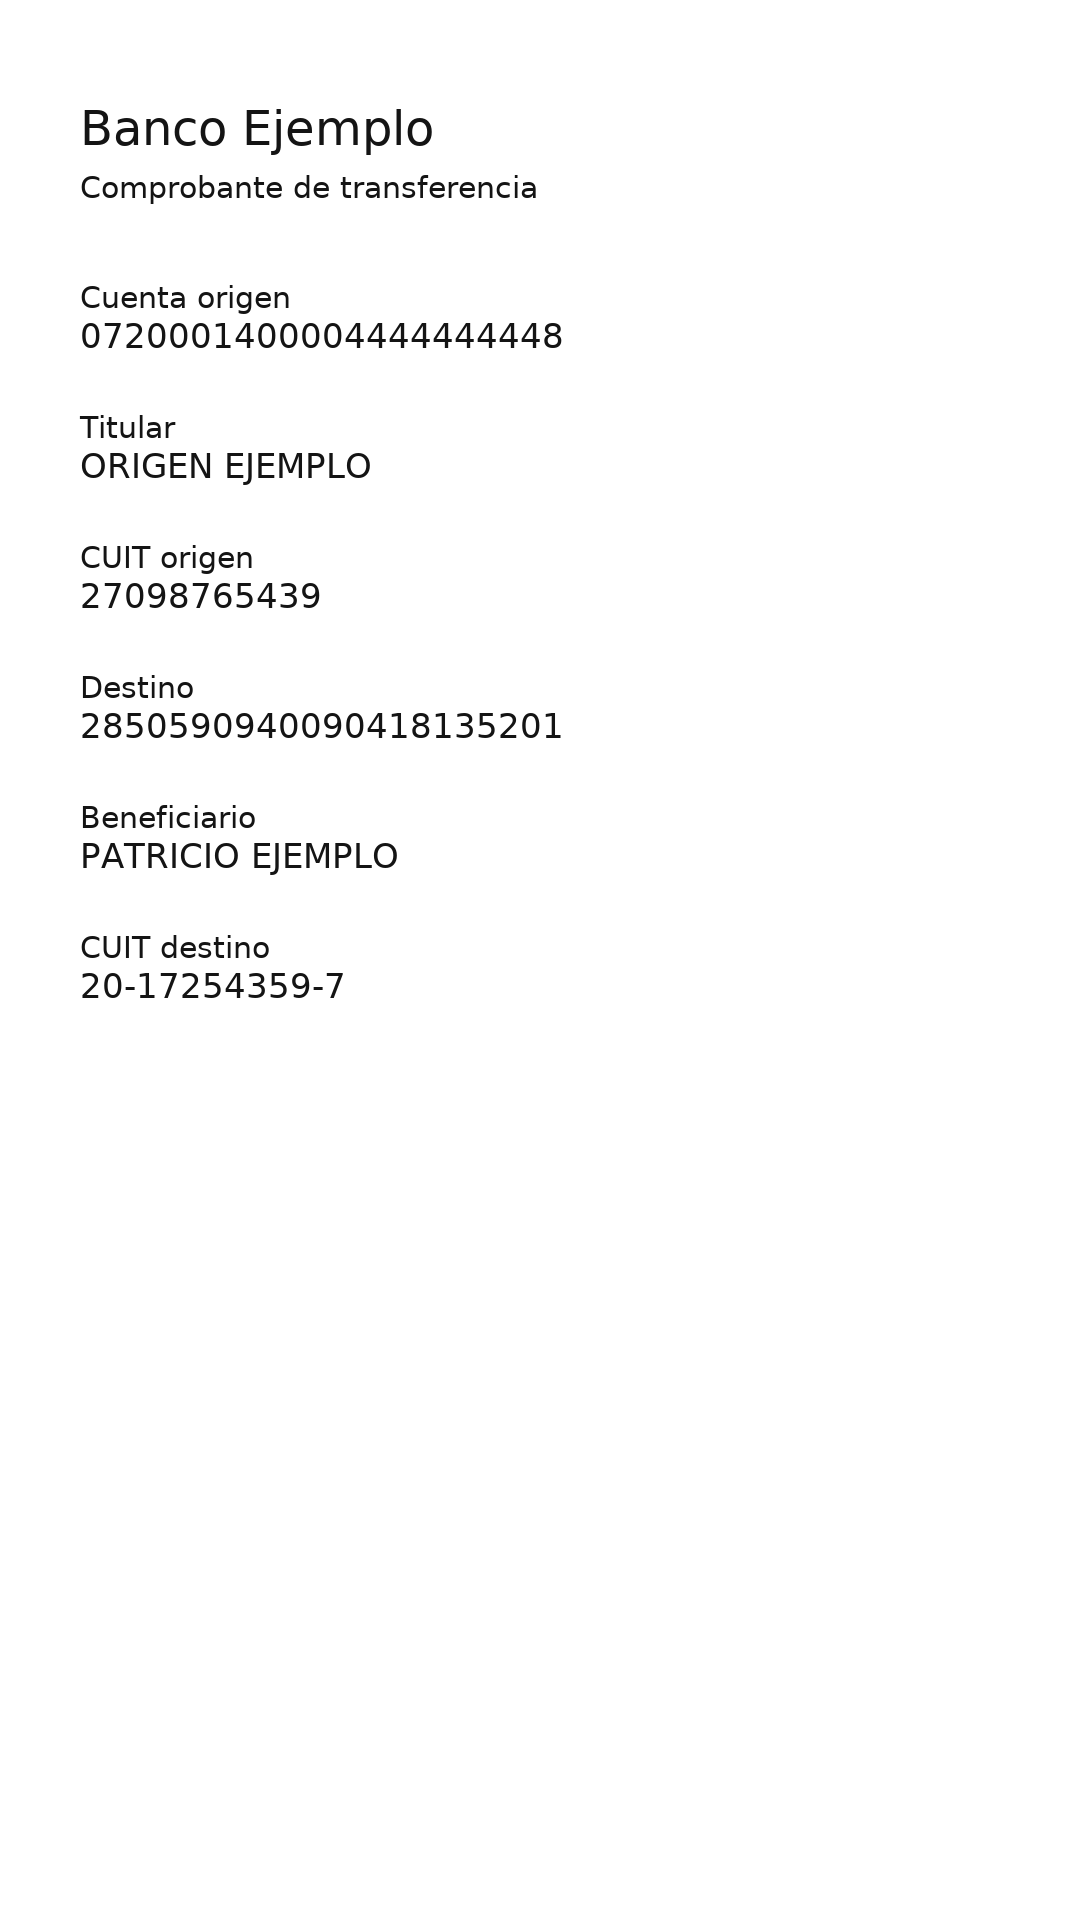
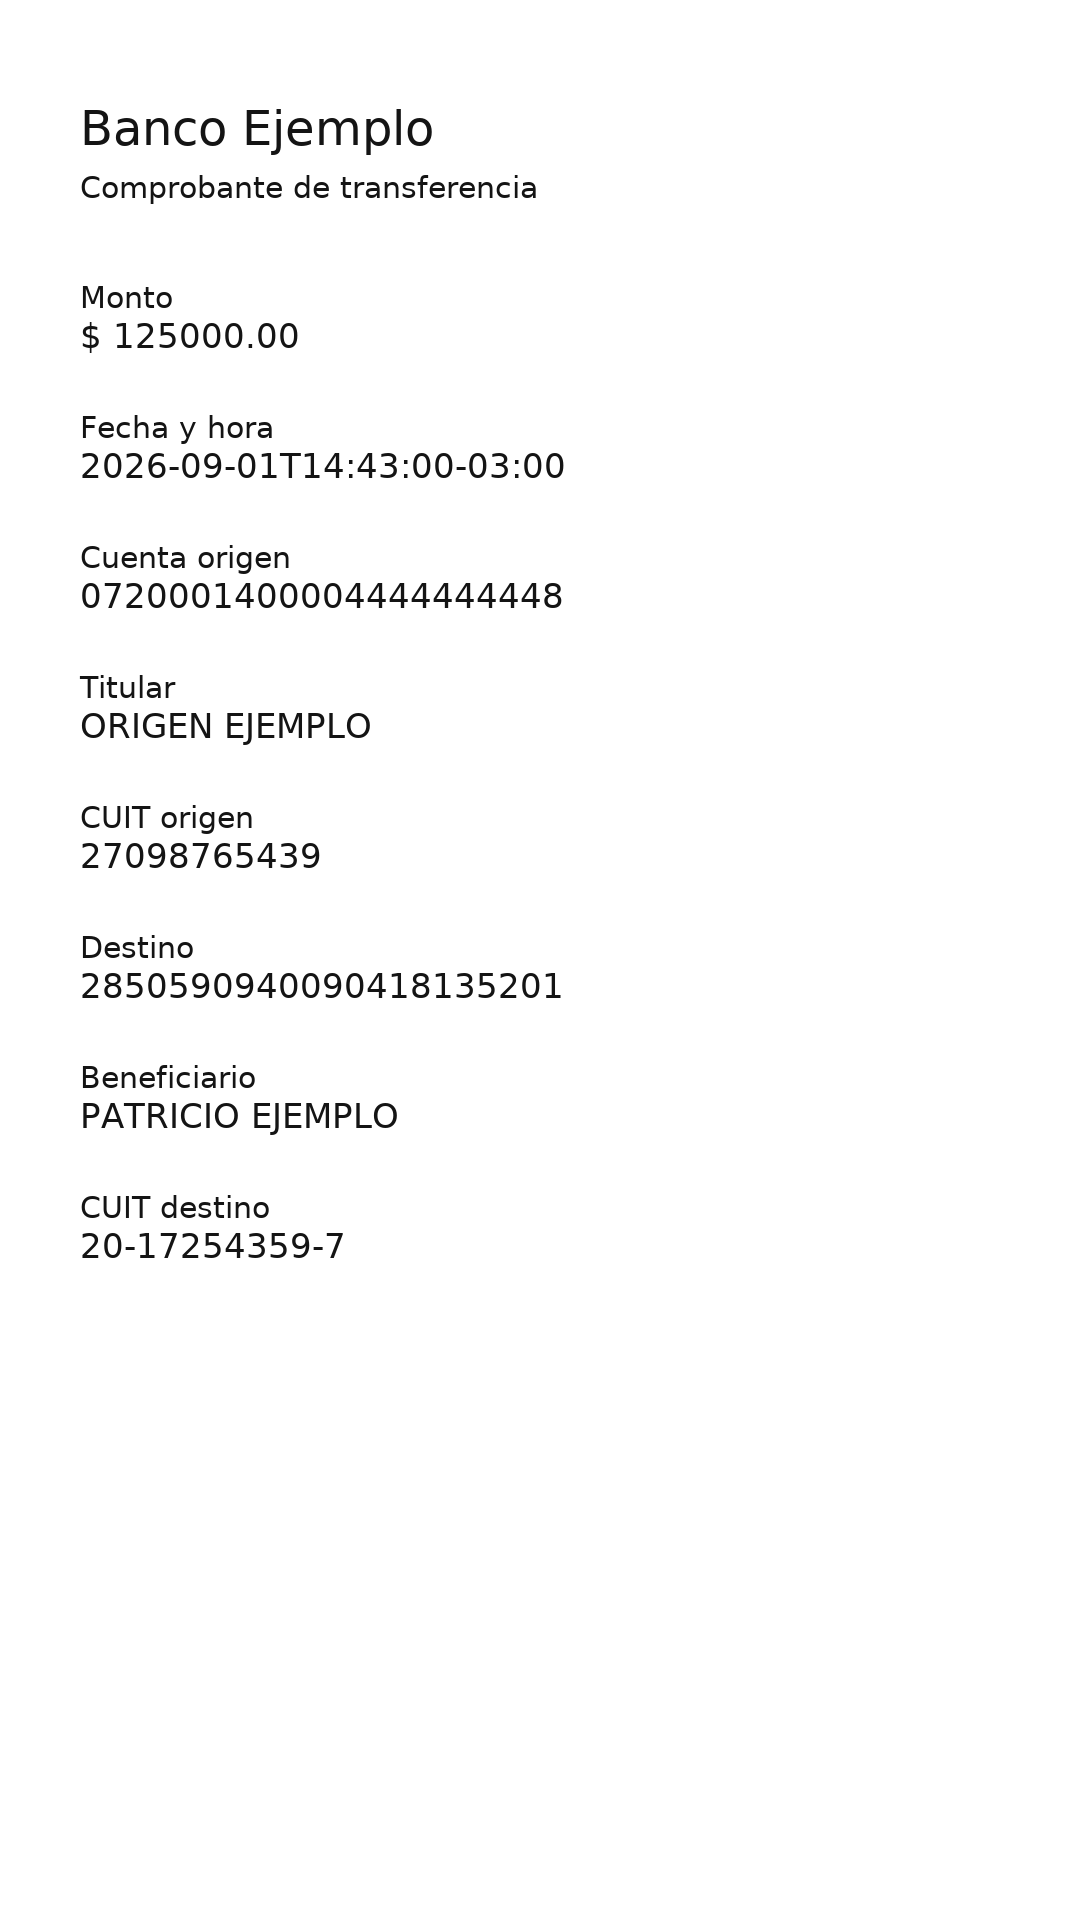
fix(samples): add amount/date to two-party fixtures for real OCR coverage
The two-party disambiguation fixtures only rendered the origin/
destination CBU+CUIT pairs, omitting amount and date entirely (no real
receipt looks like this). Against the real OCR engine in CI, core-field
coverage topped out at 2/4 -- below paddle_onnx.py's 0.75
COVERAGE_THRESHOLD -- so the adapter reported status=partial instead of
completed, failing
test_real_engine_selects_destination_pair_on_two_party_labeled_fixture.
This was invisible in local/apply/verify runs because none of them had
RECEIPT_RISK_OCR_MODEL_DIR set, so the real-engine integration tests
were silently skipped until CI actually ran them.

Adds the existing AMOUNT/DATE_TIME rows so both fixtures are complete,
realistic receipts (coverage 4/4), while leaving the origin/destination
CBU+CUIT pairs and their checksum-valid values unchanged -- the
disambiguation behavior under test is unaffected.

diff --git a/samples/generate.py b/samples/generate.py
@@ -135,10 +135,16 @@ ROWS_NO_LABEL: tuple[str, ...] = (
     DECOY_PHONE,
 )
 
-# two_party_labeled / two_party_no_labels: origin block then destination
-# block, both CBU/CUIT pairs checksum-valid (so keyword-proximity, not
-# checksum validity, is what the labeled test proves).
+# two_party_labeled / two_party_no_labels: a complete receipt (amount +
+# date, like every real transfer receipt) with an origin block then a
+# destination block, both CBU/CUIT pairs checksum-valid (so
+# keyword-proximity, not checksum validity, is what the labeled test
+# proves). Amount/date are included so overall core-field coverage clears
+# paddle_onnx.py's COVERAGE_THRESHOLD against the real OCR engine, not
+# just the two disambiguation-relevant fields.
 ROWS_TWO_PARTY: tuple[tuple[str, str], ...] = (
+    ("Monto", f"$ {AMOUNT}"),
+    ("Fecha y hora", DATE_TIME),
     ("Cuenta origen", ORIGIN_CBU),
     ("Titular", ORIGIN_BENEFICIARY),
     ("CUIT origen", ORIGIN_CUIT),
@@ -147,6 +153,8 @@ ROWS_TWO_PARTY: tuple[tuple[str, str], ...] = (
     ("CUIT destino", CUIT),
 )
 ROWS_TWO_PARTY_NO_LABELS: tuple[str, ...] = (
+    f"$ {AMOUNT}",
+    DATE_TIME,
     ORIGIN_CBU,
     ORIGIN_BENEFICIARY,
     ORIGIN_CUIT,
